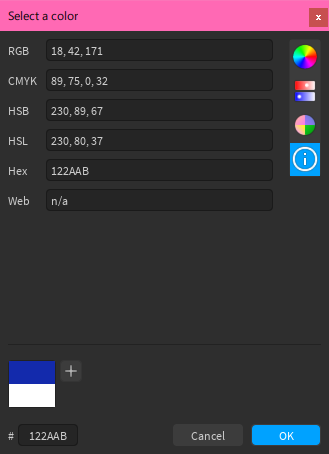
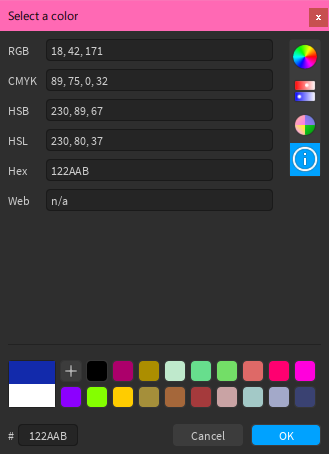
Update documentation

Changed region(s): [[0.1824, 0.7709, 0.9726, 0.8943]]

diff --git a/docs/user-guide/color-editor.md b/docs/user-guide/color-editor.md
@@ -6,7 +6,9 @@ The color editor has several components to it:
 
 If the editor window is large enough, then all of the components will be shown at the same time, otherwise you can use the button bar at the right of the window to pick which one to view. By default, the window is only large enough to show the wheel and sliders.
 
-Outside of being used in a plugin, you can use the plugin toolbar to bring up the color editor at any time.
+![The plugin toolbar](../images/toolbar.png)
+
+You can use the toolbar to bring up the color editor at any time using the *Color Editor* button.
 
 ## Color Wheel
 
@@ -88,4 +90,4 @@ The quick palette at the bottom of the window lets you temporarily store colors 
 
 ![The comparison and hex input](../images/tools.png)
 
-The comparison square shows the current and starting colors (on the top and bottom respectively), with the Quick Palette next to it. If you ever need to start over, you can click on the starting color to reset. The hex input accepts either 3 (`ABC` = `AABBCC`) or 6 (`ABCDEF`) digits.
+The comparison square shows the current and starting colors (on the top and bottom respectively), and you can click on the starting color to set the current color, in case you want to start over. The hex input accepts either 3 (`ABC` = `AABBCC`) or 6 (`ABCDEF`) digits.

diff --git a/docs/user-guide/color-properties.md b/docs/user-guide/color-properties.md
@@ -2,11 +2,11 @@ The Color Properties window allows you to view and edit the color properties of 
 
 ![The color properties window](../images/color-properties.png)
 
-By default, the window will not be activated, since the Roblox API data is not loaded in by default. You will need to click the *Load* button and wait for the data to load.
+By default, the window will not be activated, since the Roblox API data is not loaded in. You will need to click the *Load* button and wait for the data to load.
 
 !!! info
-    Loading the Roblox API data requires an HTTP request, and you will be prompted to allow this if this is the first time you're loading the data.
+    Loading the Roblox API data requires an HTTP request to `setup.rbxcdn.com`, and you will be prompted to allow this if this is the first time you're loading the data.
 
-If you want the window to automatically load at startup, you can either toggle the option below the *Load* button or toggle the option in the Settings window.
+If you want the window to automatically load at startup, you can either toggle the option below the *Load* button or toggle the option in the Settings.
 
 ![The unloaded color properties window](../images/color-properties-unloaded.png)

diff --git a/README.md b/README.md
@@ -2,7 +2,7 @@
 
 ColorPane is a color editor plugin for Roblox Studio. It features pickers for colors and ColorSequences, a property editor, as well as an API for integration in other plugins.
 
-You can install it [from the library](https://roblox.com/library/6474565567/ColorPane) or grab a [release](https://github.com/Blupo/ColorPane/releases) and install it manually, and you can read the documentation [here](https://blupo.github.io/ColorPane). If you want to support ColorPane's development, consider [donating](https://ko-fi.com/blupo).
+You can install it [from the library](https://roblox.com/library/6474565567/ColorPane) or grab a [release](https://github.com/Blupo/ColorPane/releases) and install it manually, and you can read the documentation [here](https://blupo.github.io/ColorPane). If you want to support ColorPane's development, consider telling others about this plugin or [donating](https://ko-fi.com/blupo).
 
 ## Screenshots
 

diff --git a/docs/index.md b/docs/index.md
@@ -2,7 +2,7 @@
 
 ColorPane is a color editor plugin for Roblox Studio. It features pickers for colors and ColorSequences, a property editor, as well as an API for integration in other plugins.
 
-You can install it [from the library](https://roblox.com/library/6474565567/ColorPane) or grab a [release](https://github.com/Blupo/ColorPane/releases) and install it manually. If you want to support ColorPane's development, consider [donating](https://ko-fi.com/blupo).
+You can install it [from the library](https://roblox.com/library/6474565567/ColorPane) or grab a [release](https://github.com/Blupo/ColorPane/releases) and install it manually. If you want to support ColorPane's development, consider telling others about this plugin or [donating](https://ko-fi.com/blupo).
 
 ![The color editor](images/all-editors.png)
 
